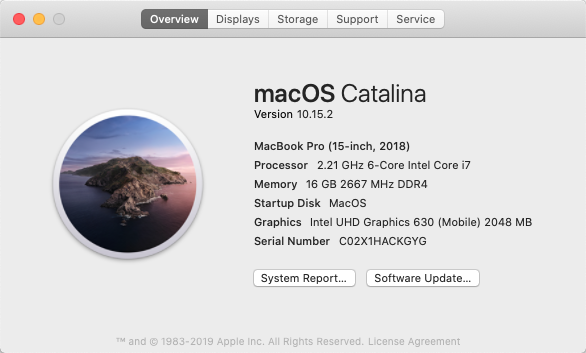
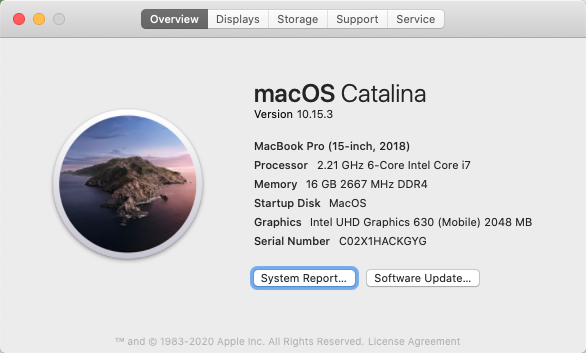
update readme

Changed region(s): [[0.3993, 0.7479, 0.6143, 0.8414], [0.215, 0.966, 0.3686, 0.9972], [0.5529, 0.3116, 0.5836, 0.3428]]

diff --git a/README.md b/README.md
@@ -1,11 +1,12 @@
 # Flymin's Hackintosh profile on Thinkpad X1E
 
-[![LICENSE](https://img.shields.io/badge/LICENSE-Anti%20996-blue.svg)](https://github.com/996icu/996.ICU/blob/master/LICENSE) ![MacOS-10.15.2](https://img.shields.io/badge/MacOS-10.15.2-orange) ![BIOS:1.24](https://img.shields.io/badge/BIOS-1.24-brightgreen) ![CLOVER:5100](https://img.shields.io/badge/CLOVER-5100-yellow)
+[![LICENSE](https://img.shields.io/badge/LICENSE-Anti%20996-blue.svg)](https://github.com/996icu/996.ICU/blob/master/LICENSE) ![MacOS-10.15.3](https://img.shields.io/badge/MacOS-10.15.3-orange) ![BIOS:1.24](https://img.shields.io/badge/BIOS-1.24-brightgreen) ![CLOVER:5100](https://img.shields.io/badge/CLOVER-5100-yellow)
 
 ## Update
 
 ##### Recent | [Changelog Archive](https://github.com/flymin/Hackintosh-Thinkpad-X1-Extreme/blob/master/UPDATES.md)
 
+- [20200205] Update to 10.15.3, no change.
 - [20191213] Update to 10.15.2 and make a new folder. Update clover to 5100.
 - [20191109] Make new 10.15.1 folder. Make iGPU with 2048MB Mem. Change model to MacBookPro15,1. Use new AppleALC, more stable with BT. And other minor update.
 
@@ -29,7 +30,7 @@ I will make effort to try every release and make modification if encounter with 
 - Wireless: Broadcom BCM943602CS
 - Sound card: Realtek ALC285
 - BIOS: v1.24
-- OS: OS X Catalina 10.15.2
+- OS: OS X Catalina 10.15.3
 
 ## Result
 
